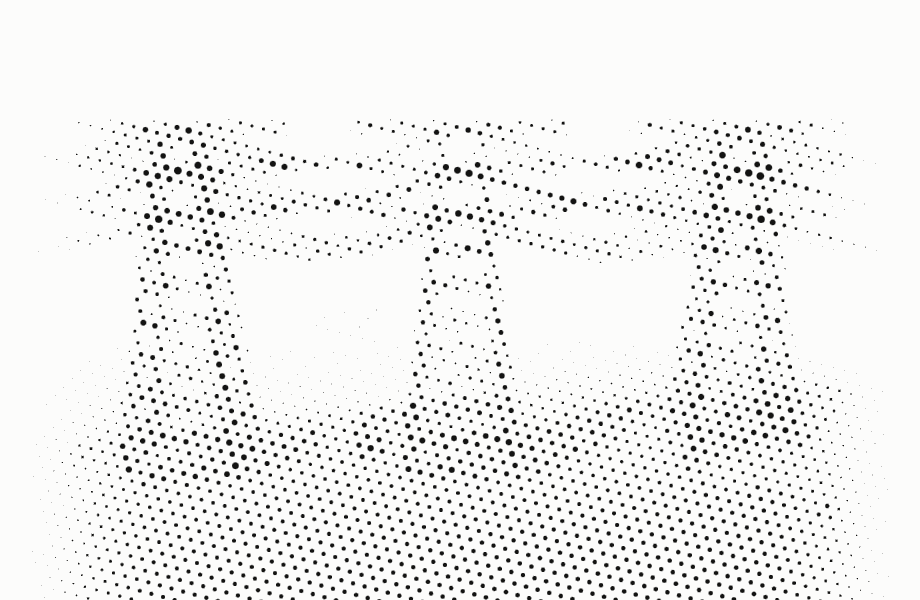
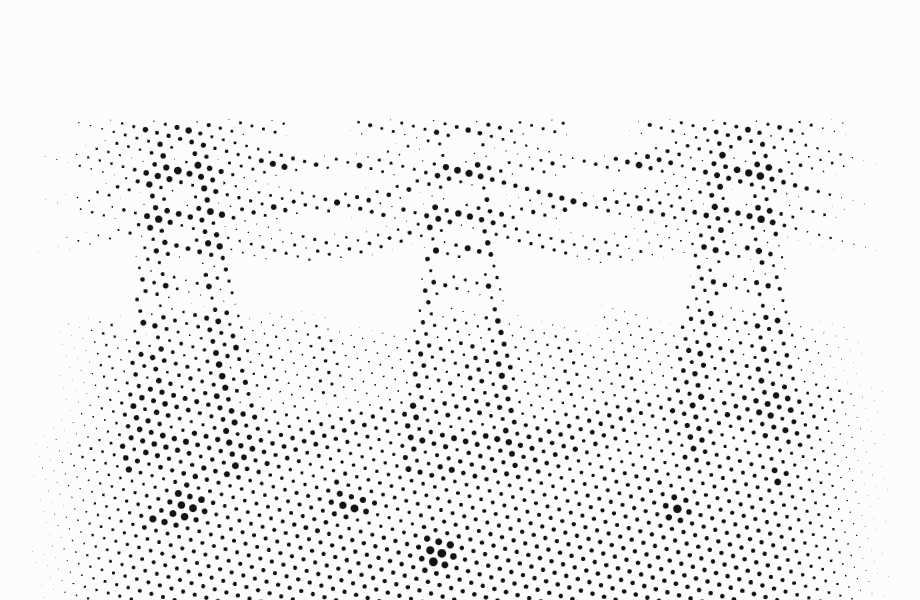
Guard scatterRadius and bring wind/grid/urban's ridge into the fog band
Round 3, two findings from independent review of round 2.

Finding 4: the d cuts in round 2 pushed ground()'s scatter placement term
(o.d/2 - flat - 8) negative for port (-4.5) and datacenter (-10.5), inverting
the near/far gradient and risking scatter boxes inside flat, the one radius
the option exists to keep clear. Extracted the radius calculation into a pure
scatterRadius(flat, d, t) helper, clamped the span at 0 so it collapses to
the near edge instead of inverting, exported it on DotFoundry, and added 6
unit tests covering the wide-annulus case, port's and datacenter's actual
flat/d, the >=flat invariant across a spread of inputs, and monotonicity in t.

Finding 5: wind, grid (both card and hero cameras), and urban carried a
non-zero ridge that rendered nothing, past fogFar the same way port and
datacenter's did before round 2. Computed camDist/fogNear/fogFar for all
three at both roles, solved for a d in the fog-fraction range that works for
both card and hero simultaneously, and re-rendered:

wind:  w 160->59, d 130->48
grid:  w 190->63, d 150->50
urban: w 140->62, d 120->53

Verified by pixel diff against HEAD (real, non-trivial change in all six
touched renders) and by direct visual inspection of every changed PNG at
card and, for these three, hero role. The change is real but subtle at
these subjects' ridge heights: no visible collision with the existing
turbines/towers/buildings, no clutter, and no new bold horizon line either.
[…]

diff --git a/prototypes/dot-foundry.html b/prototypes/dot-foundry.html
@@ -53305,6 +53305,18 @@ const camFor = (id, role) => CAM_ROLE[id + ':' + role] || CAM[id];
    ground forms then have something to work with. */
 const TONES = ['#D6D6D4', '#B8B8B6', '#9C9C9A', '#7A7A78', '#565654'];
 
+/* Radial placement for the scatter field, pulled out of ground() so it can be
+   tested without THREE. The annulus runs from flat+6 (just past the subject's
+   own footprint) out to d/2-2 (just inside the ground's far edge). A small or
+   aggressively-cut d can push that far bound inside the near one — clamping
+   the span at 0 collapses the annulus to its near edge instead of inverting,
+   which keeps every scatter box outside flat and the result monotonic in t
+   no matter how tight d gets. */
+function scatterRadius(flat, d, t){
+  const span = Math.max(0, d/2 - flat - 8);
+  return flat + 6 + t * span;
+}
+
 /* One ground for every subject, so five hand-rolled slabs cannot drift into
    five different landscapes. Three parts: a displaced plane, a ridge silhouette
    at the far edge, and a sparse scatter between the two. All primitives, all
@@ -53348,7 +53360,7 @@ function ground(g, TONE, rnd, o){
 
   for (let i=0;i<(o.scatter||0);i++){
     const a = rnd()*Math.PI*2;
-    const r = flat + 6 + rnd()*(o.d/2 - flat - 8);
+    const r = scatterRadius(flat, o.d, rnd());
     const h = 1.2 + rnd()*3.4;
     const m = new THREE.Mesh(new THREE.BoxGeometry(1.6+rnd()*2.2, h, 1.6+rnd()*2.2), TONE[0]);
     m.position.set(Math.cos(a)*r, h/2, Math.sin(a)*r - o.d*0.12);
@@ -53441,7 +53453,7 @@ function buildScene(id){
         bl.translateY(4.75); g.add(bl);
       }
     }
-    ground(g, TONE, rnd, { w: 160, d: 130, plane: false, ridge: 6.0, scatter: 20 });
+    ground(g, TONE, rnd, { w: 59, d: 48, plane: false, ridge: 6.0, scatter: 20 });
   }
 
   if (id === 'robotics'){
@@ -53479,7 +53491,7 @@ function buildScene(id){
   }
 
   if (id === 'grid'){
-    ground(g, TONE, rnd, { w: 190, d: 150, amp: 1.2, flat: 12, ridge: 7.0, scatter: 30 });
+    ground(g, TONE, rnd, { w: 63, d: 50, amp: 1.2, flat: 12, ridge: 7.0, scatter: 30 });
     const tops = [];
     for (let i=0;i<5;i++){
       const x = -34 + i*17, base = 0;
@@ -53520,7 +53532,7 @@ function buildScene(id){
       const h = Math.max(1.2, (1-dist)*rnd()*26 + rnd()*3);
       box(2.7,h,2.7, cx, h/2, cz, rnd()>.72?dark:mat);
     }
-    ground(g, TONE, rnd, { w: 140, d: 120, amp: 0.9, flat: 36, ridge: 5.0, scatter: 18 });
+    ground(g, TONE, rnd, { w: 62, d: 53, amp: 0.9, flat: 36, ridge: 5.0, scatter: 18 });
   }
 
   s.add(g);
@@ -53727,7 +53739,7 @@ function renderRole(renderer, stage, id, role, mode, overrides){
 global.DotFoundry = {
   CONST, ROLES, MODES, SUBJECTS, CAM, EDGE_ROLE, TONES,
   buildScene, renderSource, luminanceField, sample, boxAvg, edge, fadeSet, screen, asciiOf,
-  renderRole, camFor, CAM_ROLE, fadeFor, ground,
+  renderRole, camFor, CAM_ROLE, fadeFor, ground, scatterRadius,
 };
 })(window);
 </script>

diff --git a/prototypes/dot-render.html b/prototypes/dot-render.html
@@ -53161,6 +53161,18 @@ const camFor = (id, role) => CAM_ROLE[id + ':' + role] || CAM[id];
    ground forms then have something to work with. */
 const TONES = ['#D6D6D4', '#B8B8B6', '#9C9C9A', '#7A7A78', '#565654'];
 
+/* Radial placement for the scatter field, pulled out of ground() so it can be
+   tested without THREE. The annulus runs from flat+6 (just past the subject's
+   own footprint) out to d/2-2 (just inside the ground's far edge). A small or
+   aggressively-cut d can push that far bound inside the near one — clamping
+   the span at 0 collapses the annulus to its near edge instead of inverting,
+   which keeps every scatter box outside flat and the result monotonic in t
+   no matter how tight d gets. */
+function scatterRadius(flat, d, t){
+  const span = Math.max(0, d/2 - flat - 8);
+  return flat + 6 + t * span;
+}
+
 /* One ground for every subject, so five hand-rolled slabs cannot drift into
    five different landscapes. Three parts: a displaced plane, a ridge silhouette
    at the far edge, and a sparse scatter between the two. All primitives, all
@@ -53204,7 +53216,7 @@ function ground(g, TONE, rnd, o){
 
   for (let i=0;i<(o.scatter||0);i++){
     const a = rnd()*Math.PI*2;
-    const r = flat + 6 + rnd()*(o.d/2 - flat - 8);
+    const r = scatterRadius(flat, o.d, rnd());
     const h = 1.2 + rnd()*3.4;
     const m = new THREE.Mesh(new THREE.BoxGeometry(1.6+rnd()*2.2, h, 1.6+rnd()*2.2), TONE[0]);
     m.position.set(Math.cos(a)*r, h/2, Math.sin(a)*r - o.d*0.12);
@@ -53297,7 +53309,7 @@ function buildScene(id){
         bl.translateY(4.75); g.add(bl);
       }
     }
-    ground(g, TONE, rnd, { w: 160, d: 130, plane: false, ridge: 6.0, scatter: 20 });
+    ground(g, TONE, rnd, { w: 59, d: 48, plane: false, ridge: 6.0, scatter: 20 });
   }
 
   if (id === 'robotics'){
@@ -53335,7 +53347,7 @@ function buildScene(id){
   }
 
   if (id === 'grid'){
-    ground(g, TONE, rnd, { w: 190, d: 150, amp: 1.2, flat: 12, ridge: 7.0, scatter: 30 });
+    ground(g, TONE, rnd, { w: 63, d: 50, amp: 1.2, flat: 12, ridge: 7.0, scatter: 30 });
     const tops = [];
     for (let i=0;i<5;i++){
       const x = -34 + i*17, base = 0;
@@ -53376,7 +53388,7 @@ function buildScene(id){
       const h = Math.max(1.2, (1-dist)*rnd()*26 + rnd()*3);
       box(2.7,h,2.7, cx, h/2, cz, rnd()>.72?dark:mat);
     }
-    ground(g, TONE, rnd, { w: 140, d: 120, amp: 0.9, flat: 36, ridge: 5.0, scatter: 18 });
+    ground(g, TONE, rnd, { w: 62, d: 53, amp: 0.9, flat: 36, ridge: 5.0, scatter: 18 });
   }
 
   s.add(g);
@@ -53583,7 +53595,7 @@ function renderRole(renderer, stage, id, role, mode, overrides){
 global.DotFoundry = {
   CONST, ROLES, MODES, SUBJECTS, CAM, EDGE_ROLE, TONES,
   buildScene, renderSource, luminanceField, sample, boxAvg, edge, fadeSet, screen, asciiOf,
-  renderRole, camFor, CAM_ROLE, fadeFor, ground,
+  renderRole, camFor, CAM_ROLE, fadeFor, ground, scatterRadius,
 };
 })(window);
 </script>

diff --git a/prototypes/dot-engine.js b/prototypes/dot-engine.js
@@ -102,6 +102,18 @@ const camFor = (id, role) => CAM_ROLE[id + ':' + role] || CAM[id];
    ground forms then have something to work with. */
 const TONES = ['#D6D6D4', '#B8B8B6', '#9C9C9A', '#7A7A78', '#565654'];
 
+/* Radial placement for the scatter field, pulled out of ground() so it can be
+   tested without THREE. The annulus runs from flat+6 (just past the subject's
+   own footprint) out to d/2-2 (just inside the ground's far edge). A small or
+   aggressively-cut d can push that far bound inside the near one — clamping
+   the span at 0 collapses the annulus to its near edge instead of inverting,
+   which keeps every scatter box outside flat and the result monotonic in t
+   no matter how tight d gets. */
+function scatterRadius(flat, d, t){
+  const span = Math.max(0, d/2 - flat - 8);
+  return flat + 6 + t * span;
+}
+
 /* One ground for every subject, so five hand-rolled slabs cannot drift into
    five different landscapes. Three parts: a displaced plane, a ridge silhouette
    at the far edge, and a sparse scatter between the two. All primitives, all
@@ -145,7 +157,7 @@ function ground(g, TONE, rnd, o){
 
   for (let i=0;i<(o.scatter||0);i++){
     const a = rnd()*Math.PI*2;
-    const r = flat + 6 + rnd()*(o.d/2 - flat - 8);
+    const r = scatterRadius(flat, o.d, rnd());
     const h = 1.2 + rnd()*3.4;
     const m = new THREE.Mesh(new THREE.BoxGeometry(1.6+rnd()*2.2, h, 1.6+rnd()*2.2), TONE[0]);
     m.position.set(Math.cos(a)*r, h/2, Math.sin(a)*r - o.d*0.12);
@@ -238,7 +250,7 @@ function buildScene(id){
         bl.translateY(4.75); g.add(bl);
       }
     }
-    ground(g, TONE, rnd, { w: 160, d: 130, plane: false, ridge: 6.0, scatter: 20 });
+    ground(g, TONE, rnd, { w: 59, d: 48, plane: false, ridge: 6.0, scatter: 20 });
   }
 
   if (id === 'robotics'){
@@ -276,7 +288,7 @@ function buildScene(id){
   }
 
   if (id === 'grid'){
-    ground(g, TONE, rnd, { w: 190, d: 150, amp: 1.2, flat: 12, ridge: 7.0, scatter: 30 });
+    ground(g, TONE, rnd, { w: 63, d: 50, amp: 1.2, flat: 12, ridge: 7.0, scatter: 30 });
     const tops = [];
     for (let i=0;i<5;i++){
       const x = -34 + i*17, base = 0;
@@ -317,7 +329,7 @@ function buildScene(id){
       const h = Math.max(1.2, (1-dist)*rnd()*26 + rnd()*3);
       box(2.7,h,2.7, cx, h/2, cz, rnd()>.72?dark:mat);
     }
-    ground(g, TONE, rnd, { w: 140, d: 120, amp: 0.9, flat: 36, ridge: 5.0, scatter: 18 });
+    ground(g, TONE, rnd, { w: 62, d: 53, amp: 0.9, flat: 36, ridge: 5.0, scatter: 18 });
   }
 
   s.add(g);
@@ -524,6 +536,6 @@ function renderRole(renderer, stage, id, role, mode, overrides){
 global.DotFoundry = {
   CONST, ROLES, MODES, SUBJECTS, CAM, EDGE_ROLE, TONES,
   buildScene, renderSource, luminanceField, sample, boxAvg, edge, fadeSet, screen, asciiOf,
-  renderRole, camFor, CAM_ROLE, fadeFor, ground,
+  renderRole, camFor, CAM_ROLE, fadeFor, ground, scatterRadius,
 };
 })(window);

diff --git a/tests/dot-engine.test.ts b/tests/dot-engine.test.ts
@@ -186,3 +186,59 @@ describe('ground forms', () => {
     expect(calls).toHaveLength(6);
   });
 });
+
+// A prior review flagged flat + 6 + t*(d/2 - flat - 8) as an unguarded edge
+// case: once d is cut small enough relative to flat, the span goes negative,
+// the near/far gradient inverts, and scatter boxes land inside flat, the one
+// radius the option exists to keep clear. scatterRadius is the same formula
+// with the span clamped at 0, pulled out so this is checkable without THREE.
+describe('scatterRadius', () => {
+  it('exposes the helper', () => {
+    const E = loadEngine();
+    expect(typeof E.scatterRadius).toBe('function');
+  });
+
+  it('spans the annulus from flat+6 to d/2-2 when the annulus is wide', () => {
+    const E = loadEngine();
+    // grid: flat 12, d 150 -> span from 18 to 73
+    expect(E.scatterRadius(12, 150, 0)).toBeCloseTo(18);
+    expect(E.scatterRadius(12, 150, 1)).toBeCloseTo(73);
+    expect(E.scatterRadius(12, 150, 0.5)).toBeCloseTo(45.5);
+  });
+
+  it("collapses to flat+6 for port's actual flat/d, where the raw span is -4.5", () => {
+    const E = loadEngine();
+    expect(E.scatterRadius(44, 95, 0)).toBeCloseTo(50);
+    expect(E.scatterRadius(44, 95, 0.5)).toBeCloseTo(50);
+    expect(E.scatterRadius(44, 95, 1)).toBeCloseTo(50);
+  });
+
+  it("collapses to flat+6 for datacenter's actual flat/d, where the raw span is -10.5", () => {
+    const E = loadEngine();
+    expect(E.scatterRadius(30, 55, 0)).toBeCloseTo(36);
+    expect(E.scatterRadius(30, 55, 0.5)).toBeCloseTo(36);
+    expect(E.scatterRadius(30, 55, 1)).toBeCloseTo(36);
+  });
+
+  it('never returns a radius inside flat, across a spread of flat/d/t combinations', () => {
+    const E = loadEngine();
+    const flats = [0, 12, 26, 30, 36, 44];
+    const ds = [20, 55, 80, 95, 120, 150];
+    const ts = [0, 0.25, 0.5, 0.75, 1];
+    for (const flat of flats) for (const d of ds) for (const t of ts) {
+      expect(E.scatterRadius(flat, d, t)).toBeGreaterThanOrEqual(flat);
+    }
+  });
+
+  it('is monotonic non-decreasing in t for a fixed flat and d', () => {
+    const E = loadEngine();
+    for (const [flat, d] of [[12, 150], [44, 95], [30, 55], [36, 120]]) {
+      let prev = -Infinity;
+      for (let t = 0; t <= 1; t += 0.1) {
+        const r = E.scatterRadius(flat, d, t);
+        expect(r).toBeGreaterThanOrEqual(prev);
+        prev = r;
+      }
+    }
+  });
+});
